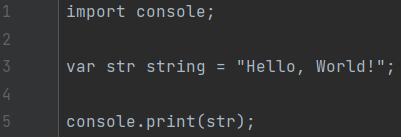
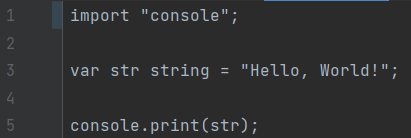
update print.ecla

diff --git a/HowToStart/ReadMe.md b/HowToStart/ReadMe.md
@@ -54,7 +54,7 @@ To print in Ecla you will have to use one of our standard library, console.
 
 ### Import a library
 To start, you will have to import the library by using the keyword `import` followed by the library name.  
-So in our case to import the library console, you will write : `import console;`.
+So in our case to import the library console, you will write : `import "console";`.
 
 ### Use a library
 Now that our library is imported in our code, we will be able to use it.  
